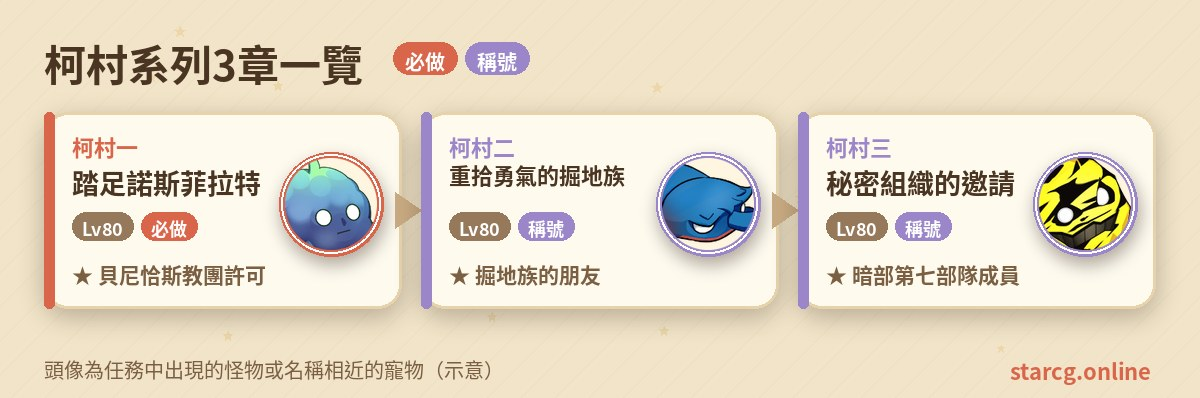
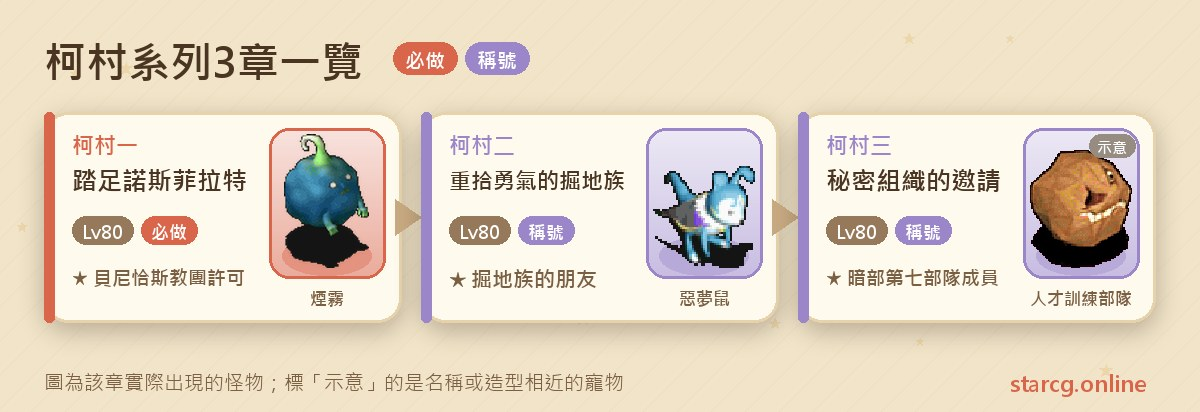
琥珀之卵、新村、柯村、公主傳說攻略插圖改用全身怪物圖並校正；文章圖片網址加內容版本號
- 四篇依攻略網校正名稱、技能與座標，插圖改用任務實際出現的怪物
- build.mjs：文章插圖、og:image、JSON-LD 的圖片網址加上內容雜湊（?v=），換圖後不會被一年快取卡住舊圖

Claude-Session: https://claude.ai/code/session_015zE4E5T7154vbHseJrngyz

diff --git a/src/posts/princess-quest-guide.md b/src/posts/princess-quest-guide.md
@@ -11,7 +11,7 @@ cover: img/princess-quest-guide-cover.jpg
 
 > 本文整理自 [星詠魔力攻略網](https://guide.starcg.net/) 的公主傳說系列頁面，並用我們自己的方式重新排序與改寫，沒有逐字照搬。BOSS 血量與數值是約略值，攻略網沒有列出的數值本文也不另外補；實際以遊戲內為準，遊戲更新後內容可能變動。
 
-![公主傳說八個任務一覽：每章的推薦等級、取得的勳章稱號與獎勵](img/princess-quest-guide-flow.jpg)
+![公主傳說任務八章一覽：通緝令到再會席琳公主的推薦等級與春櫻、秋楓勳章，以及巨蝙蝠、托羅帝鳥、風之妖精、烏金鬼鍬、殺人蜂、獨角仙、粉紅菇等各章怪物](img/princess-quest-guide-flow.jpg)
 
 ## 公主傳說是什麼？先看整體順序
 
@@ -34,7 +34,7 @@ cover: img/princess-quest-guide-cover.jpg
 
 公主傳說的戰鬥強度不算高，真正會卡住人的是「錢」和「前置」。第三章若還沒有貝尼恰斯教團許可，要準備 25 萬魔幣；第七章的船家鑰匙要 50000G；第八章的安神定智湯要 10000G；第四章從絲米村傳送則要 20 個香草和 1000G。這些開銷集中在一起看，就知道為什麼建議先存好錢再開始。
 
-![公主傳說出發前準備清單：25 萬魔幣、解放者稱號、香草與船費等](img/princess-quest-guide-prep.jpg)
+![公主傳說任務出發前準備清單：解放者稱號、柯村一、25 萬魔幣、20 個香草、船家鑰匙 50000G、安神定智湯 10000G 與時光之人提醒](img/princess-quest-guide-prep.jpg)
 
 香草這類材料可以自己採集，也可以直接向玩家購買；用本站的 [市場查價](/market/) 輸入道具名稱，就能看到目前攤位的價格，整隊要一起做的話先比價再出發最省事。另外，公主一只能在早晨或白天接、而且第六步要等到傍晚或晚上，時間點請先看好。
 
@@ -56,7 +56,7 @@ cover: img/princess-quest-guide-cover.jpg
 
 **寶袋與皮膚兌換券**：寶袋隨機開出「穴熊皮膚兌換券」或「黃色口臭鬼皮膚兌換券」。集滿 10 張並帶著對應寵物到法蘭城寵物店找寵物形象改造 NPC，就能隨機永久換成兩款皮膚之一（紫晶穴熊、赤目穴熊／黃色毒唇鬼、黃色紅唇鬼），寵物的能力、等級、檔次都不會變。要注意**換了之後無法變回原色**，只能再用兌換券換別款。
 
-![公主傳說一：地底湖的湖心守衛 Lv55 帶著四種地雷，被炸到哭的冒險者](img/princess-quest-guide-scene.jpg)
+![公主傳說一通緝令：地底湖的湖心守衛 Lv55、約 3,400 血，帶著薩普地雷等四種地雷圍攻，被打哭的冒險者](img/princess-quest-guide-scene.jpg)
 
 ## 公主二：月待花開（幽靜小屋的近衛女官）
 
@@ -92,8 +92,8 @@ cover: img/princess-quest-guide-cover.jpg
 推薦 70 級，完成上一章即可接。這一章沒有固定的 BOSS 戰，重點是兩座 15 層的山。
 
 1. 到亞紀城公主府（55, 39）找**侍女荷月**（15, 12），取得「荷月的委託」。
-2. 前往日耀之域：到絲米村帶 20 個香草與 1000G，找**傳送神官**（66, 37）選擇傳送。傳送石需要先完成「飄風之蘭」任務，並到亞紀城醫院旁的傳送交通管理中心（28, 50）找**傳送石管理員**（42, 22）登記傳送點。
-3. 到碧波鎮村長家（16, 5）找**月心爺**，取得 2 個「月心軍令」，分別交給旭日村與朝日村的連洛人，順序不限。
+2. 前往日耀之域：到絲米村帶 20 個香草與 1000G，找**傳送神官**（66, 37）選「是」傳送到日耀之域。另外，想用傳送石直接到亞紀城的話，需要先完成「飄風之蘭」任務，並到亞紀城醫院旁的傳送交通管理中心（28, 50）找**傳送石管理員**（42, 22）登記傳送點。
+3. 到碧波鎮的村長家找**月心爺**（16, 5），取得 2 個「月心軍令」，分別交給旭日村與朝日村的連洛人，順序不限。
 4. **旭日山**：到旭日村找**連洛人阿凱**（45, 61）拿通行證，從南門出發找守衛（658, 346）進「？」，走黃色傳送石到旭日山，爬 15 層到山頂，在（63, 40）採「藥草」。沿途有 75 級的布拉茲、果凍史萊姆，偶爾會遇到 75 級的迷你龍與烏金鬼鍬。
 5. **朝日山**：到朝日村找**連洛人阿虎**（61, 39）拿通行證，從東門往東南找守衛（367, 352）進「？」，走黃色傳送石到朝日山，爬 15 層到山頂，在（36, 23）採「藥草」。沿途是 75 級的烈風翼龍與死亡樹精。
 6. 帶兩種藥草回碧波鎮找**月心爺**，取得稱號「秋楓第四勳章」與寶袋。
@@ -106,7 +106,7 @@ cover: img/princess-quest-guide-cover.jpg
 
 1. （劇情可略過）到阿凱魯法村找**月心爺**（179, 132）打聽情報。
 2. 到亞紀城找**傳信侍女**（46, 42）拿「給御醫的信」，再到公主府找**御醫香織**（15, 8）換「給十兵衛的信」。
-3. 出公主府找**十兵衛**（54, 36），從傳送石進入**花之山谷**，通過 15 層迷宮到谷頂找**雨梧**取得「秋楓糖霜」。沿途有殺人蜂、火鶴小妖（會下毒）、向日葵小妖，每次 3～6 隻。
+3. 出公主府找**十兵衛**（54, 36），從傳送石進入**花之山谷**，通過 15 層迷宮到谷頂找**雨梧**（33, 23）取得「秋楓糖霜」。沿途有 49～51 級的殺人蜂、火鶴小妖（會下毒）、向日葵小妖，每次 3～6 隻。
 4. 到哥拉爾鎮找**傳信侍女**（126, 205）拿「給御醫的信」，到白之宮殿外找**御醫艾露菲**（36, 42）換「給古魯的信」。
 5. 進宮殿找**士兵古魯**（73, 15）進入**回月之塔**，通過 15 層迷宮到塔頂找**櫻子**取得「春櫻雨露」。沿途有 29～31 級的紅兔、菇婆芋小妖（會下毒）與火焰咩。
 6. 帶著糖霜與雨露回阿凱魯法村找**月心爺**（179, 132），領「春櫻第三勳章」「秋楓第三勳章」兩個稱號與「席琳服飾袋」。
@@ -147,7 +147,7 @@ cover: img/princess-quest-guide-cover.jpg
 推薦 80 級，系列的最終章，要分成兩條線跑。
 
 1. 到伊爾村找**月心爺**（52, 49），領取 2 封「席琳的求助信」，分別交給兩位公主，順序不限。
-2. **艾爾瑪公主線**：到哥拉爾鎮白之宮殿找**貼身侍女小青**（77, 15）進接見室，找**艾爾瑪公主**（14, 16）拿通行證；出北門找**守谷人**（285, 294）傳到庫魯克斯島，走傳送石（31, 28）穿過靜默谷 1900M 到靜默之森，打倒**靜默守護者**後點擊靜默草（29, 12）取得「靜默草」。
+2. **艾爾瑪公主線**：到哥拉爾鎮白之宮殿找**貼身侍女小青**（77, 15）進接見室，找**艾爾瑪公主**（14, 16）拿通行證；出北門找**守谷人**（285, 294）傳到庫魯克斯島，走傳送石（31, 28）穿過靜默谷 1900M 到靜默之森，找**靜默守護者**（27, 15）開戰，獲勝後點擊靜默草（29, 12）取得「靜默草」。
 3. **亞紀公主線**：到亞紀城公主府找**貼身侍女小紅**（11, 3）進接見室，找**亞紀公主**（15, 8）拿通行證；出南門找**守谷人**（165, 173）傳到哈那可半島，走傳送石（29, 20）穿過寧心谷 1900M 到寧心之森，找**寧心守護者**（29, 12）開戰，獲勝後點擊寧心花取得「寧心花」。
 4. 回法蘭城西醫院找**藥師小咪**（16, 6），花 **10000G** 買「安神定智湯」。
 5. 到聖拉魯卡村找**芝兒**（19, 37）進後山，往北找**守谷人**（142, 79）傳到芙蕾雅，走傳送石（33, 26）穿過海邊的山谷 1900M，抵達隱密的山谷。
@@ -159,7 +159,7 @@ cover: img/princess-quest-guide-cover.jpg
 
 **順路小技巧**：在隱密的山頂找傳送石（56, 11），可以經過海邊的山谷與隱密的山頂抵達芙蕾亞，再往西南走選「是」，就能傳回芙蕾雅（216, 169）的莎蓮娜海底洞窟旁。
 
-![公主傳說 BOSS 圖鑑：湖心守衛、近衛女官、草藥精靈、士兵阿瑪洛、靜默守護者與寧心守護者](img/princess-quest-guide-boss.jpg)
+![公主傳說任務 BOSS 圖鑑：湖心守衛、近衛女官、草藥精靈、士兵阿瑪洛、靜默守護者與寧心守護者的等級、血量與技能](img/princess-quest-guide-boss.jpg)
 
 ## 公主傳說常見問題
 

diff --git a/src/posts/amber-egg-quest-guide.md b/src/posts/amber-egg-quest-guide.md
@@ -11,7 +11,7 @@ cover: img/amber-egg-quest-guide-cover.jpg
 
 > 本文整理自 [星詠魔力攻略網](https://guide.starcg.net/) 的琥珀之卵系列頁面，並用我們自己的方式重新排序與改寫，沒有逐字照搬。BOSS 血量與數值是約略值，攻略網沒有列出的數值本文也不另外補；實際以遊戲內為準，遊戲更新後內容可能變動。
 
-![琥珀之卵六個任務一覽：每章的推薦等級、時間限制與轉職保證書、迅速果斷、鯊魚與雷拉普斯等獎勵](img/amber-egg-quest-guide-flow.jpg)
+![琥珀之卵任務卵一到卵六一覽：各章推薦等級與轉職保證書、迅速果斷、鯊魚、雷拉普斯等獎勵，以及火蜥蜴、跳跳地雷、神獸玄武、守墓者龍骨、黃銅怪、九頭龍等怪物](img/amber-egg-quest-guide-flow.jpg)
 
 ## 琥珀之卵是什麼？先看整體順序
 
@@ -30,7 +30,7 @@ cover: img/amber-egg-quest-guide-cover.jpg
 
 琥珀之卵最常見的失敗原因不是打不贏，而是「時間不對」「沒有單人」「沒跟 NPC 講到話」。出發前先把幾件事記住：卵一、卵三、卵四、卵五都有黃昏或夜晚的限制；卵一的 BOSS 和卵五的精靈之牙都必須單人戰鬥；卵四的重要對話要切換隊伍中的每個角色逐一完成。
 
-![琥珀之卵出發前準備清單：夜晚時段、長老之證、學技能費用、文言抄本與時空之人暗語](img/amber-egg-quest-guide-prep.jpg)
+![琥珀之卵任務出發前準備清單：黃昏夜晚時段、單人關卡、長老之證、迅速果斷學費、覺醒的文言抄本、精靈之牙與時空之人暗語](img/amber-egg-quest-guide-prep.jpg)
 
 錢的部分，卵三學迅速果斷要 6,000G；卵二若日後開放，傑諾瓦鎮武器店的 5 級小刀售價 30,000G。卵四要收集 7 個長老之證，守墓者有冷卻時間，要預留足夠的時間慢慢刷；各章需要的補品與血瓶，可以先用本站的 [市場查價](/market/) 看看攤位行情再採購。
 
@@ -102,15 +102,15 @@ cover: img/amber-egg-quest-guide-cover.jpg
 
 **打法**：這一章幾乎所有敵人都**無效多體攻擊技能**（亂射、氣功彈、多體魔法），隊伍要以單體攻擊為主。戰敗也算完成任務，只是不會掉文言抄本；攻略網也提醒，用塞滿隊友背包的方式逼特定角色拿到抄本是行不通的。
 
-![琥珀之卵四：昏神祭司 Lv30 帶著冰凍龍骨，多體攻擊全部無效被打哭的冒險者](img/amber-egg-quest-guide-scene.jpg)
+![琥珀之卵四神之召喚：海底墓場外苑的守墓者龍骨 Lv27～35、各約 1,500 血，多體攻擊全被無效、被打哭的冒險者](img/amber-egg-quest-guide-scene.jpg)
 
 ## 卵五：古代的支配者（四昏神與鯊魚寵物）
 
 推薦 30 級，條件是完成卵四，並在黃昏或夜晚進行。
 
-1. 黃昏或夜晚，在法蘭城遺跡（83, 36）、（63, 87）、（167, 86）、（133, 74）附近遇敵，**單人戰鬥並獲勝**，每位隊員都要各自拿到一個「精靈之牙」。會出現的地、水、火、風之精靈是 100 級，可以逃跑。
+1. 黃昏或夜晚，在法蘭城遺跡（83, 36）、（63, 87）、（167, 86）、（133, 74）附近遇敵，**單人戰鬥並獲勝**，每位隊員都要各自拿到一個「精靈之牙」。會出現的地、水、火、風之精靈是 100 級，會逃跑；同場還有 20～24 級的黃銅怪、紅銅怪、鐵獅或銀獅各 2～3 隻。
 2. 帶著覺醒的文言抄本與精靈之牙，到神殿伽藍二樓的精靈之下宮調查四個屬性雕像，交出精靈之牙後傳送到地之昏神領域。
-3. 在每個領域的（166, 79）依序打倒**地、水、火、風使者**（各 25 級、約 2,000 血、可二動），旁邊各有 5 隻 20～24 級的小怪；勝利後進內宮與昏神談話，前往下一個領域。
+3. 在每個領域的（166, 79）依序打倒**地、水、火、風使者**（各 25 級、約 2,000 血、可二動，都無效多體攻擊），旁邊分別帶著 5 隻 20～24 級的黃銅怪、紅銅怪、鐵獅與銀獅；勝利後進內宮與昏神談話，前往下一個領域。
 4. 從傳送石（166, 141）進入四昏神領域，在底層傳送後找**阿布荷斯主教**（67, 171），交出覺醒的文言抄本開戰。
 5. 再到內宮與阿布荷斯、安潔可談話，挑戰瘋狂狀態的四精靈。
 6. 勝利後傳回精靈之下宮，隊伍中隨機一人拿到「阿布荷斯的逆十字」，0～2 人拿到金塊。
@@ -132,17 +132,17 @@ cover: img/amber-egg-quest-guide-cover.jpg
 6. 在第一層找**安潔可**（175, 125）對話，進入異界之神戰。
 7. 勝利後隊伍中隨機一人拿到「安潔可的逆十字」，傳回艾爾莎島（195, 99），再到蓋雷布倫森林找**納塞**（245, 73）領取寵物。
 
-**BOSS 資料**：中頭目組員 55 級、約 6,400 血、二動，會一石二鳥並召喚金屬蜥蜴；旁邊是 4 隻突擊神官（55 級、約 800 血）與 5 隻金屬蜥蜴（會攻擊反彈與魔法反彈，還會召喚突擊神官）。最終 BOSS **異界之神** 60 級、約 26,000 血、二動，技能有氣功彈（6）、超強隕石、超強風刃、攻擊反彈、超強混亂魔法、吸血攻擊與魔法封印；身邊有黑、藍、灰、紅四隻九頭龍，各 60 級、約 5,000 血。
+**BOSS 資料**：中頭目組員 55 級、約 6,400 血、二動，會一石二鳥並召喚金屬蜥蜴；旁邊是 4 隻突擊神官（55 級、約 800 血）與 5 隻金屬蜥蜴（8 級、約 900 血，會攻擊反彈與魔法反彈，還會召喚突擊神官）。最終 BOSS **異界之神** 60 級、約 26,000 血、二動，技能有氣功彈（6）、超強隕石、超強風刃、攻擊反彈、超強混亂魔法、吸血攻擊與魔法封印；身邊有黑、藍、灰、紅四隻九頭龍，各 60 級、約 5,000 血。
 
 **最重要的提醒**：如果先打倒異界之神，剩下的九頭龍會用**全體傷害的自爆**，很容易團滅。攻略網的建議是**先清空九頭龍，再打主王**。四隻九頭龍技能各不相同，例如藍色會攻擊吸收與超強補血魔法，紅色會反擊、崩擊與戰慄襲心。打這種二動又帶反彈的 BOSS 前，用本站的 [傷害計算機](/damage/) 估一下輸出，比較能掌握要打幾回合。
 
 **獎勵**：雷拉普斯，或極低機率的劍神萊因哈特，攻略網沒有列出確切機率。
 
-![琥珀之卵 BOSS 圖鑑：約格、馬汀斯、神獸玄武、安潔可、昏神祭司、四昏神、組員與異界之神](img/amber-egg-quest-guide-boss.jpg)
+![琥珀之卵任務 BOSS 圖鑑：約格、馬汀斯、神獸玄武、安潔可、守墓者龍骨、昏神祭司、四昏神、組員與異界之神的等級、血量與技能](img/amber-egg-quest-guide-boss.jpg)
 
 ## 時空之人：用暗語重置進度
 
-琥珀之卵系列（卵二除外）無法正常重複接取，要靠艾夏島冒險者旅館（102, 115）裡的**時空之人**（30, 20）重置。面對他在一般頻道輸入暗語即可：安登（回到全新狀態，重接卵一）、貝爾達（解完卵一）、凱撒（解完卵二）、朵拉（解完卵三，可重接卵四）、愛蜜兒（解完卵四，可重接卵五）、腓特烈（解完卵五，可重接卵六）。
+琥珀之卵系列（卵二除外）無法正常重複接取，要靠艾夏島冒險者旅館（102, 115）裡的**時空之人**（30, 20）重置。面對他在一般頻道輸入暗語即可：安登（回到全新狀態，重接卵一）、貝爾達（解完卵一）、凱薩（解完卵二）、朵拉（解完卵三，可重接卵四）、愛蜜兒（解完卵四，可重接卵五）、腓特烈（解完卵五，可重接卵六）。
 
 前提是要**完整解過一次**該階段。想重刷轉職保證書請輸入「朵拉」；只解過卵三、或卵四只做到一半就輸入愛蜜兒，系統不會承認你完成過卵四，也遇不到法蘭遺跡的精靈，這時同樣要輸入朵拉重新完整解一次。
 

diff --git a/src/posts/new-village-quest-guide.md b/src/posts/new-village-quest-guide.md
@@ -11,7 +11,7 @@ cover: img/new-village-quest-guide-cover.jpg
 
 > 本文整理自 [星詠魔力攻略網](https://guide.starcg.net/) 的新村系列頁面，並用我們自己的方式重新排序與改寫，沒有逐字照搬。BOSS 血量與數值是約略值，攻略網沒有列出的數值本文也不另外補；實際以遊戲內為準，遊戲更新後內容可能變動。
 
-![新村七個任務一覽：受襲的商船、登陸北方冰原、罹難的漁夫、商貿都市、深海歷險、霧鎖航路、崩落的坑道](img/new-village-quest-guide-flow.jpg)
+![新村任務七章一覽：受襲的商船到崩落的坑道的推薦等級與獎勵，以及黑暗鳥人、銀怪、液態史萊姆、水蜘蛛、死靈、地龍蜥等各章怪物](img/new-village-quest-guide-flow.jpg)
 
 ## 新村系列是什麼？先看整體順序
 
@@ -33,7 +33,7 @@ cover: img/new-village-quest-guide-cover.jpg
 
 新村系列最大的陷阱是「道具丟了就卡住」。隊員徽章、聯絡信、冒險者徽章都是後續任務或傳送需要的道具，攻略網一再提醒不可丟棄；新村二的船票丟掉的話也會沒辦法下船。另外，好幾段都要「等待 2～5 分鐘」再對話，急不得。
 
-![新村出發前準備清單：隊員徽章、聯絡信、冒險者徽章、船票、純地水晶與漂亮的羽毛](img/new-village-quest-guide-prep.jpg)
+![新村任務出發前準備清單：隊員徽章、聯絡信、冒險者徽章不能丟，船票、純地水晶、漂亮的羽毛與背包空位](img/new-village-quest-guide-prep.jpg)
 
 新村六的獎勵舒適的皮鞋與舒適的長靴都是**可交易**的裝備，如果你只是想要其中一雙，或想比較自己打和直接買的差異，可以先用本站的 [市場查價](/market/) 查目前的攤位價格。
 
@@ -53,7 +53,7 @@ cover: img/new-village-quest-guide-cover.jpg
 
 **要注意的地方**：持有護衛者證明就能再次上船，戰鬥沒打贏可以無限重複第 5 步。已經做完新村一到四的陪打玩家，拿到護衛者證明後到新村四結束前不需要再對話，途中的任務道具也可以隨時丟掉。**隊員徽章是新村二的條件，千萬別丟。**
 
-![新村一：受損商船上的五隻黑暗鳥人 Lv35 一起連擊，被打哭的冒險者](img/new-village-quest-guide-scene.jpg)
+![新村一受襲的商船：受損商船上的黑暗鳥人 Lv35、每隻約 2,800 血，五隻輪流連擊把冒險者打哭](img/new-village-quest-guide-scene.jpg)
 
 ## 新村二：登陸北方冰原（山頂的銀怪）
 
@@ -61,7 +61,7 @@ cover: img/new-village-quest-guide-cover.jpg
 
 1. 到謝里雅堡（47, 49）進名人堂，在 2 樓房間（57, 87）找**管理員**，交出隊員徽章換「冒險隊徽章」。如果是接在新村一後面，要等大約 5 分鐘再對話。
 2. 到伊爾村港灣管理處找**聯絡小隊聯絡官**（20, 17），拿到「船票」並傳到聯合小隊戰船。上不了船的話，檢查背包是不是滿了，或還沒把隊員徽章換成冒險隊徽章。
-3. 等約 2 分鐘後找**船長**（44, 25）交出船票，傳送到臨時駐紮地。**船票不能丟**，否則無法下船。
+3. 等約 2 分鐘後找**船長**（44, 25）交出船票，傳送到臨時屯駐地。**船票不能丟**，否則無法下船。
 4. 找**聯合小隊副隊長**（31, 60）拿「補給物資」，再到（44, 42）進入上山小路。陪打的玩家要跳過這段對話直接往北走；如果副隊長的對話是叫你一路小心，**不要按確定**，否則會直接傳送到西爾維村。
 5. 穿過隨機迷宮到山頂，找**先遣隊員**（54, 45）交出補給物資換「提神飲料」，再往北到（49, 32）進入下山小路。
 6. 穿過隨機迷宮到山腳，找**狂暴的巨人**（47, 35）對話開戰。
@@ -69,7 +69,7 @@ cover: img/new-village-quest-guide-cover.jpg
 
 **BOSS 資料**：銀怪 45 級、約 4,500 血，一回合兩動，會攻擊、防禦、聖盾、諸刃與強力隕石魔法。
 
-**之後的捷徑**：持有聯絡信與冒險者徽章，就能在伊爾村港灣管理處找聯絡官搭船，約 2 分鐘後跟船長對話下船，到臨時駐紮地找副隊長即可傳送到西爾維村。**聯絡信與冒險者徽章不可丟棄**，否則這條傳送路線會失效。上山、下山兩段隨機迷宮可以用 [迷宮找樓梯](/maze/) 輔助記路。
+**之後的捷徑**：持有聯絡信與冒險者徽章，就能在伊爾村港灣管理處找聯絡官搭船，約 2 分鐘後跟船長對話下船，到臨時屯駐地找副隊長即可傳送到西爾維村。**聯絡信與冒險者徽章不可丟棄**，否則這條傳送路線會失效。上山、下山兩段隨機迷宮可以用 [迷宮找樓梯](/maze/) 輔助記路。
 
 ## 新村三：罹難的漁夫（奇怪的洞穴）
 
@@ -141,9 +141,9 @@ cover: img/new-village-quest-guide-cover.jpg
 6. 穿過隨機迷宮到盟約聖殿，調查（7, 39）切換場景，再調查（48, 39）的水晶石開戰。
 7. 勝利後到**格羅克・寒鐵**（55, 6）交出筆記，換「隊長的說明信」並傳回坑道；回鎮長家交給鎮長，任務完成。
 
-**BOSS 資料**：蛇神阿波菲斯 70 級，會冰凍魔法、吸血魔法、強力隕石魔法與混沌魔法；旁邊有 5 隻 70 級的地龍蜥，會諸刃與戰慄襲心。攻略網的血量欄位只寫了約 15,000，沒有區分是每隻還是合計，保守起見以每隻都很耐打來準備。完成後，不需要委託證件也能找衛兵進入莫利亞。
+**BOSS 資料**：蛇神阿波菲斯 70 級、約 15,000 血，會冰凍魔法、吸血魔法、強力隕石魔法與混沌魔法；旁邊有 5 隻 70 級的地龍蜥，會諸刃與戰慄襲心，攻略網表上同樣列約 15,000 血。六隻敵人血量都很厚，補給和持久戰的準備要做足。完成後，不需要委託證件也能找衛兵進入莫利亞。
 
-![新村 BOSS 圖鑑：黑暗鳥人、銀怪、詭異的陰影、蛟龍、瘋狂的女飛翼酋長與蛇神阿波菲斯](img/new-village-quest-guide-boss.jpg)
+![新村任務 BOSS 圖鑑：黑暗鳥人、銀怪、詭異的陰影、顎牙、蛟龍（三頭海邪龍）、瘋狂的女飛翼酋長、蛇神阿波菲斯與地龍蜥的等級血量技能](img/new-village-quest-guide-boss.jpg)
 
 ## 新村系列常見問題
 
@@ -151,7 +151,7 @@ cover: img/new-village-quest-guide-cover.jpg
 
 **新村二上不了船怎麼辦？** 先檢查背包是否已滿，再確認是否已經在名人堂把隊員徽章換成冒險隊徽章。
 
-**聯絡信和冒險者徽章可以丟嗎？** 不行。丟掉之後就無法透過臨時駐紮地傳送到西爾維村，新村四也需要冒險者徽章才能拿先遣隊徽章。
+**聯絡信和冒險者徽章可以丟嗎？** 不行。丟掉之後就無法透過臨時屯駐地傳送到西爾維村，新村四也需要冒險者徽章才能拿先遣隊徽章。
 
 **新村六的物資官為什麼不給海島調查信？** 身上還留著調查證明時拿不到，先把調查證明丟掉再對話即可。
 

diff --git a/src/posts/ke-village-quest-guide.md b/src/posts/ke-village-quest-guide.md
@@ -11,7 +11,7 @@ cover: img/ke-village-quest-guide-cover.jpg
 
 > 本文整理自 [星詠魔力攻略網](https://guide.starcg.net/) 的柯村系列頁面，並用我們自己的方式重新排序與改寫，沒有逐字照搬。BOSS 血量與數值是約略值，攻略網沒有列出的數值本文也不另外補；實際以遊戲內為準，遊戲更新後內容可能變動。
 
-![柯村三個任務一覽：踏足諾斯菲拉特、重拾勇氣的掘地族、秘密組織的邀請與各章獎勵](img/ke-village-quest-guide-flow.jpg)
+![柯村任務三章一覽：踏足諾斯菲拉特、重拾勇氣的掘地族、秘密組織的邀請的推薦等級與獎勵，以及煙霧、惡夢鼠、人才訓練部隊等怪物](img/ke-village-quest-guide-flow.jpg)
 
 ## 柯村系列是什麼？先看整體順序
 
@@ -29,7 +29,7 @@ cover: img/ke-village-quest-guide-cover.jpg
 
 柯村系列沒有長篇的道具清單，但幾個門檻一旦漏了就只能回頭補：解放者稱號、25 萬魔幣、每趟 1000G 的船費、每人 20 朵蝴蝶花，以及柯村三的競技場前置。
 
-![柯村出發前準備清單：解放者稱號、25 萬魔幣、船費、蝴蝶花與魔力藥劑](img/ke-village-quest-guide-prep.jpg)
+![柯村任務出發前準備清單：解放者稱號、25 萬魔幣教團許可、1000G 船費、每人 20 朵蝴蝶花、打敗艾謝巴特、夜晚調查草料與毒氣樣本](img/ke-village-quest-guide-prep.jpg)
 
 蝴蝶花是柯村二每個隊員都要各自交出的材料，整隊一起做時需求量會乘上人數。可以用本站的 [市場查價](/market/) 輸入「蝴蝶花」看看目前攤位價格，再決定要自己採集還是直接收購。
 
@@ -62,13 +62,13 @@ cover: img/ke-village-quest-guide-cover.jpg
 9. 前往哥拉爾鎮，從西門出城到庫魯克斯島（218, 432），找**年邁的掘地族**進入庫魯克斯地底通道。
 10. 在（478, 52）找**年輕的掘地族**，取得稱號「掘地族的朋友」，被傳送到雷克塔爾鎮門外（590, 380），任務完成。
 
-**BOSS 資料**：勇氣加持之夢魘約 18,000 血（攻略網缺少等級資料），一回合兩動，技能有普通攻擊、混亂攻擊、連擊、吸血攻擊、孤注一擲、諸刃、大地之怒與強力遺忘魔法。最需要注意的是：**當牠的 MP 低於 20% 時，會追加傷害約 450 的大地之怒，之後每回合都會使用**。也就是說，戰鬥拖到後半段反而更危險，後期要確保隊伍血量保持在安全線上。
+**BOSS 資料**：勇氣加持之夢魘約 18,000 血（攻略網缺少等級資料），一回合兩動，技能有攻擊、混亂攻擊、連擊、吸血攻擊、乾坤一擲、諸刃、大地之怒與超強遺忘魔法。最需要注意的是：**當牠的 MP 低於 20% 時，會追加傷害約 450 的大地之怒，之後每回合都會使用**。也就是說，戰鬥拖到後半段反而更危險，後期要確保隊伍血量保持在安全線上。
 
 **要注意的地方**：洞窟沿途的惡魔蝙蝠與惡夢鼠會吸血與冰凍，18 層的隨機迷宮走起來不短；用 [迷宮找樓梯](/maze/) 邊走邊記樓梯位置，可以少繞很多路。打完之後別忘了最後一段要回到哥拉爾鎮西門外，任務才算完成。
 
 **稱號的好處**：拿到「掘地族的朋友」之後，在哥拉爾鎮西門外找年邁的掘地族（218, 432），就能直接傳送到雷克塔爾鎮門外，往返柯村、諾斯菲拉特一帶方便很多。
 
-![柯村二：夢境之麥尼洞窟最深處的勇氣加持之夢魘，MP 見底後每回合大地之怒，被打哭的冒險者](img/ke-village-quest-guide-scene.jpg)
+![柯村二重拾勇氣的掘地族：夢境之麥尼洞窟底層的勇氣加持之夢魘（約 18,000 血），MP 低於 20% 後每回合大地之怒，把冒險者打哭](img/ke-village-quest-guide-scene.jpg)
 
 ## 柯村三：秘密組織的邀請（暗部第七部隊成員）
 
@@ -91,7 +91,7 @@ cover: img/ke-village-quest-guide-cover.jpg
 | （716, 92） | 樹 | 79，二動 | 7,500 | 乾坤一擲、戰慄襲心 | 勝利證明 III |
 | （767, 85） | 石頭 | 79，二動 | 6,500 | 乾坤一擲、連擊、陽炎 | 勝利證明 IV |
 
-四名成員的外形都不是人型，而是石頭與樹，找的時候別被外觀騙了。諾斯菲拉特（758, 74）有**暗部醫療部隊成員**可以補充魔力藥劑（非資深版），但**只在夜晚出現**，四場戰鬥之間可以善加利用。
+四名成員的外形都不是人型，而是石頭與樹，找的時候別被外觀騙了。諾斯菲拉特（758, 74）有**暗部醫療部隊成員**可以補血補魔（攻略網註明「非資深」），但**只在夜晚出現**，四場戰鬥之間可以善加利用。
 
 **忍者職業流程**：同樣搭船到柯村，夜晚調查草料（41, 61）選「是」，就直接拿到組織圖復刻版與稱號，任務完成，不必打四名成員。
 
@@ -99,7 +99,7 @@ cover: img/ke-village-quest-guide-cover.jpg
 
 **要注意的地方**：攻略網提到任務中的「夜晚」限制在某些情況下可能失效，白天也有可能執行，但不確定是不是 BUG。保險起見還是照夜晚來做，比較不會白跑。
 
-![柯村 BOSS 圖鑑：勇氣加持之夢魘、四名人才訓練部隊與鐵拳艾謝巴特](img/ke-village-quest-guide-boss.jpg)
+![柯村任務 BOSS 圖鑑：勇氣加持之夢魘、人才訓練部隊 I～IV 與鐵拳・艾謝巴特的等級、血量與技能](img/ke-village-quest-guide-boss.jpg)
 
 ## 柯村系列常見問題
 
